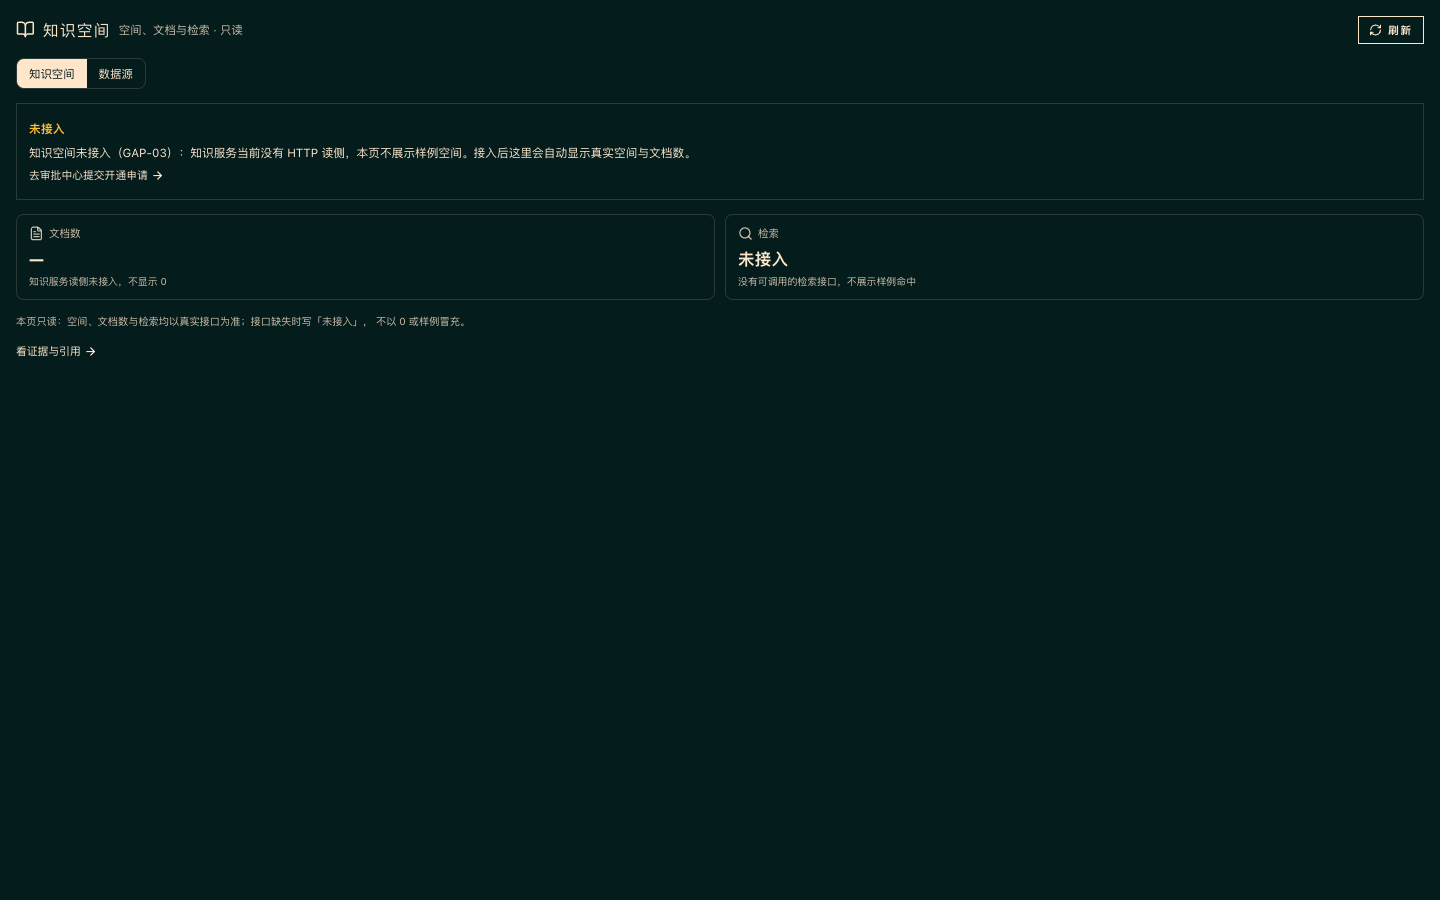
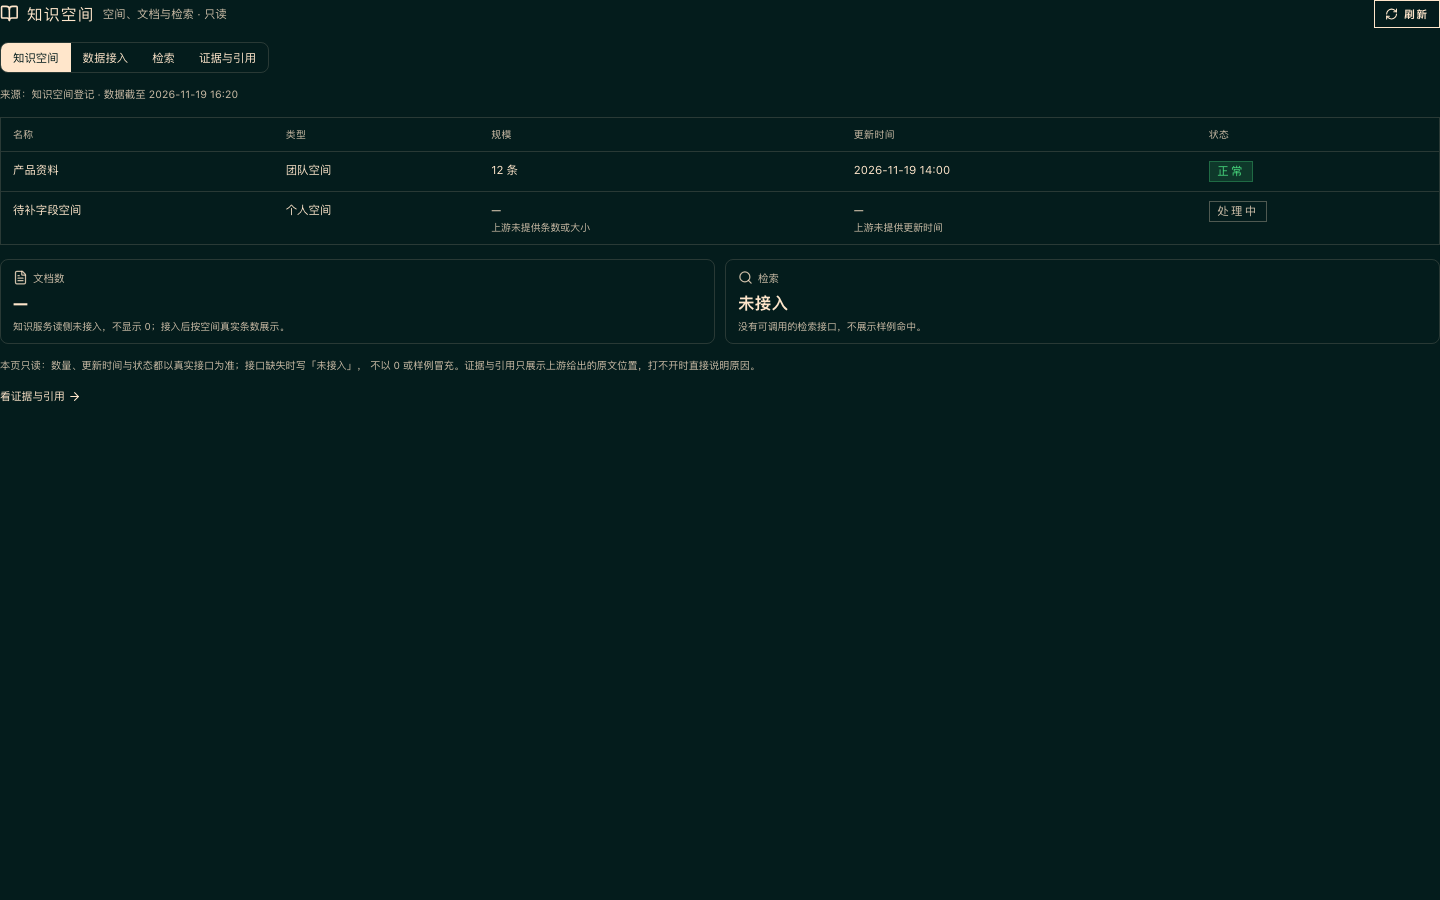
docs(console): knowledge tabs evidence (knw4)

diff --git a/docs/_artifacts/gov/DONE.md b/docs/_artifacts/gov/DONE.md
@@ -865,3 +865,80 @@ built /private/tmp/r17-build/index.html
 - 未跑独立观察者；截图为本地视觉自检。
 - 未改 `App.tsx` / `shell/**` / `pages/**` / manifest / scripts / package / lock；未 install。
 - `ten4` 真实空态仅用于「两个来源都返回但都没有可用总数」；真 0 不再被当成空态。
+
+## 知识空间 /knowledge 四 tab 诚实收口（2026-11-19 16:2x）
+
+### 基线
+
+- `git rev-parse --show-toplevel` = `/Users/kevin_studio/Projects/forks/console-gov`
+- fetch + `git reset --hard origin/lane/hermes-console` = `5bdb0553`（gate ledger，web/src 与 `e3efe15a` 同代）；porcelain 0。
+- 写域仅 `web/src/modules/knowledge/**`；未改 App/shell/pages/manifest/scripts/package/lock，未 install。
+
+### 端点真实码（带 `v4-auth-state.json` 的 access_token_cookie，仅服务端读取，不回显）
+
+```text
+GET /api/knowledge                 404 {"code":"console.unknown_route","message":"unknown console API route"}
+GET /api/knowledge/spaces          404 {"code":"console.unknown_route","message":"unknown console API route"}
+GET /api/knowledge/documents       404 {"code":"console.unknown_route","message":"unknown console API route"}
+GET /api/documents                 404 {"code":"console.unknown_route","message":"unknown console API route"}
+GET /api/documents/list            404 {"code":"console.unknown_route","message":"unknown console API route"}
+GET /api/retrieval                 404 {"code":"console.unknown_route","message":"unknown console API route"}
+GET /api/retrieval/search          404 {"code":"console.unknown_route","message":"unknown console API route"}
+GET /api/knowledge/retrieval       404 {"code":"console.unknown_route","message":"unknown console API route"}
+GET /agent-api/api/knowledge       404 static asset fallback
+GET /agent-api/api/documents       404 static asset fallback
+GET /agent-api/api/retrieval       404 static asset fallback
+```
+
+BFF 源 `apps/console/server.py` 无 knowledge/document/retrieval 路由。页面因此对 spaces / ingest / retrieval 显示「未接入」+ 人话原因 + GAP-03 只在 `title` + `/approvals` 申请入口；不展示样例、不写 0。证据与引用走既有 `/agent-api/api/run-events?kind=citation&limit=50`，本页不回落 fixture；无登录态未取得真实 200。
+
+### 实现
+
+| tab | 数据源 | 当前呈现 |
+|---|---|---|
+| 知识空间 spaces | `/agent-api/api/knowledge/spaces` | 未接入（GAP-03 title）；有数据时 名称/类型/规模/更新时间 北京时间到分/状态，缺失 `—`+原因 |
+| 数据接入 ingest | `/agent-api/api/documents?limit=50` | 未接入（同上）；有数据时同一列口径 |
+| 检索 retrieval | `/agent-api/api/retrieval` | 未接入（同上）；不展示样例命中 |
+| 证据与引用 evidence | `/agent-api/api/run-events?kind=citation&limit=50` | 标题/类型/员工「姓名 · 8 位短码」或未指派/北京时间；站内原文可打开，站外或缺失显示「原文不可达」+原因 |
+
+- 四态：加载骨架 / 正常 / 空（明确“接口已响应但列表为空”，不推断 0）/ 错（人话 + 可复制请求编号 + 重试）；401 登录、403 无权、404 未接入。
+- 每个 tab 显示「来源 + 数据截至」；上游无 asOf 显示「时间未知」+原因，不用浏览器时间冒充。GAP 编号只进 `title`；页面无裸 API 路径/字段名/HTTP 码。
+- testid `knw4-*`；1440/1280/375 body 与页面 scrollWidth 均等于视口；375 表格改为 data-label 堆叠，无横向滚动。
+
+### 原始 stdout
+
+```text
+$ ./node_modules/.bin/tsc -b . --noEmit
+TSC_EXIT=0
+
+$ npx vitest run src/modules/knowledge
+ Test Files  1 passed (1)
+      Tests  8 passed (8)
+
+$ npx vitest run
+ Test Files  119 passed (119)
+      Tests  1178 passed (1178)
+
+$ PATH="/opt/homebrew/bin:$PATH" node scripts/build/web.mjs --source . --out /tmp/knowledge-build --icons .
+BUILD_EXIT=0
+built /private/tmp/knowledge-build/index.html
+```
+
+### DOM 读数（Chrome CDP，临时 harness 已删除）
+
+```text
+spaces 1440x900 vw=1440 bodySW=1440 bodyCW=1440 pageSW=1440 pageCW=1440 rows=2 thead=table-header-group
+spaces 1280x800 vw=1280 bodySW=1280 bodyCW=1280 pageSW=1280 pageCW=1280 rows=2 thead=table-header-group
+spaces 375x812  vw=375  bodySW=375  bodyCW=375  pageSW=375  pageCW=375  rows=2 thead=none
+evidence 1440x900 vw=1440 bodySW=1440 pageSW=1440 citations=2 open=1 unreachable=1
+evidence 375x812  vw=375  bodySW=375  pageSW=375  citations=2 open=1 unreachable=1
+```
+
+- 截图：`docs/_artifacts/gov/shots/knw4-1440.png`、`knw4-1280.png`、`knw4-375.png`、`knw4-evidence-1440.png`、`knw4-evidence-375.png`（fixture stub，仅证明布局与四态渲染，不代表线上读数）。
+- `.knw4-page .arc-border { display:none }` 隐藏共享按钮装饰弧边，消除 pageSW +2px。
+
+### 需壳层注册的路由/槽位清单（App.tsx 非本 lane 写域）
+
+- `#/knowledge?tab=sources`：当前 App 的 `/knowledge` live map 只有 `spaces` 与 `evidence`，没有 `sources`；需把 `sources` 指向 `KnowledgeConsolePage`（本页），否则该入口仍落到占位/旧节点。
+- `#/knowledge?tab=retrieval`：shell 别名把 `retrieval` 指到 evidence；若希望深链直接落在本页「检索」tab，需要把别名/路由节点指向 `KnowledgeConsolePage` 并保留 `tab=retrieval`。
+- `web/src/modules/evidence/**` 仍是独立页且 404/网络失败时回落 `EVIDENCE_FIXTURE`；不在本 lane 写域，本轮未改，需该模块 owner 按同一诚实口径处理。
